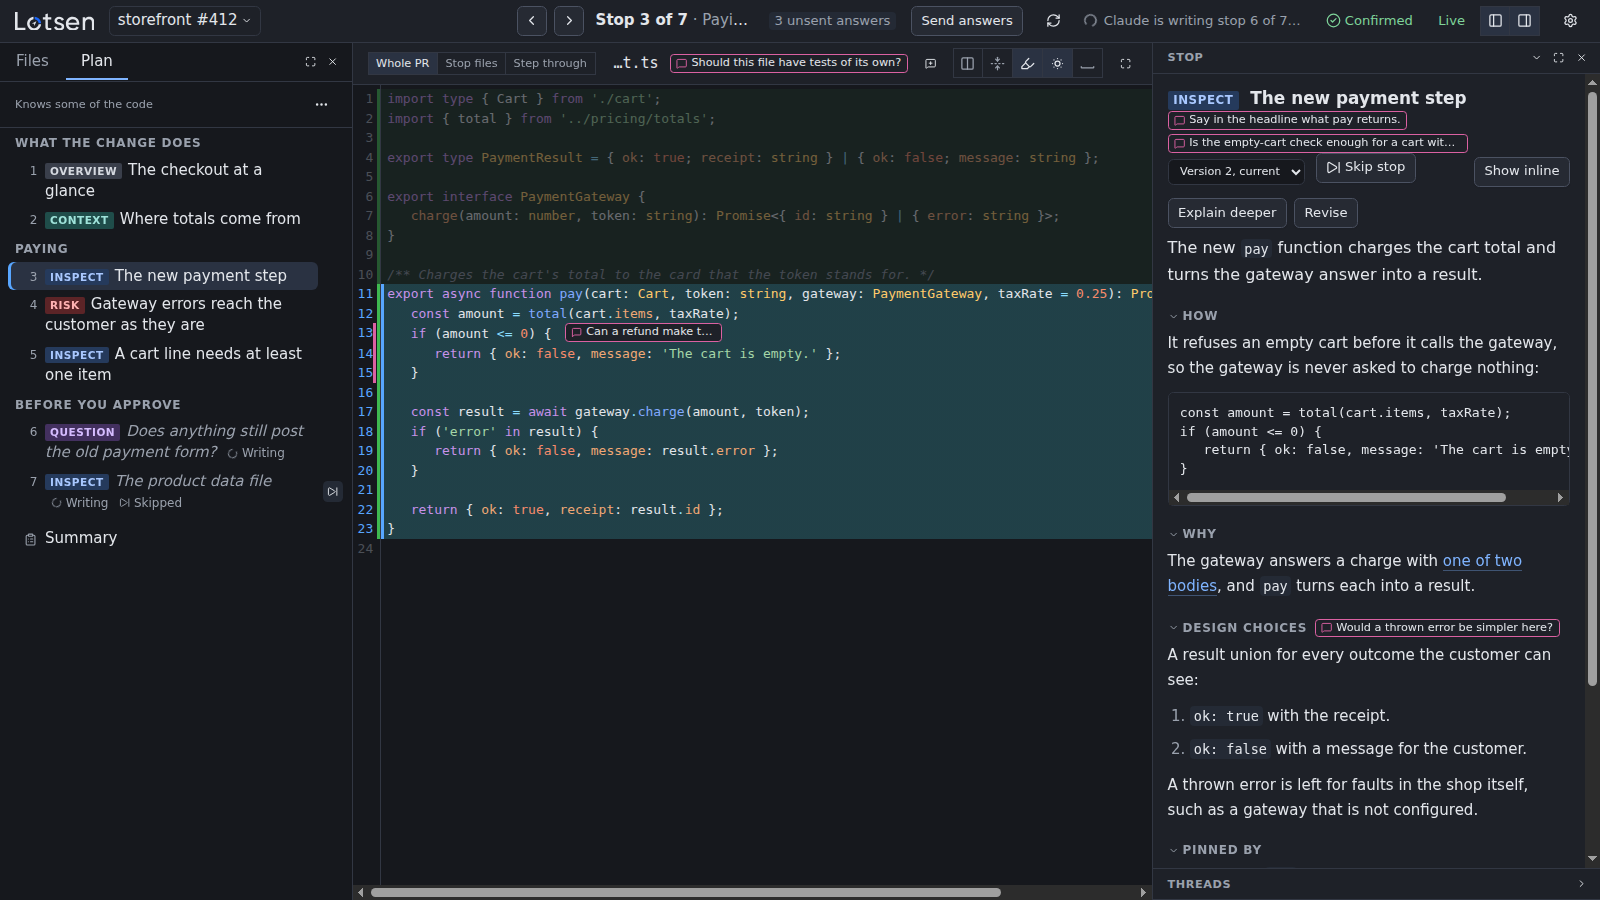
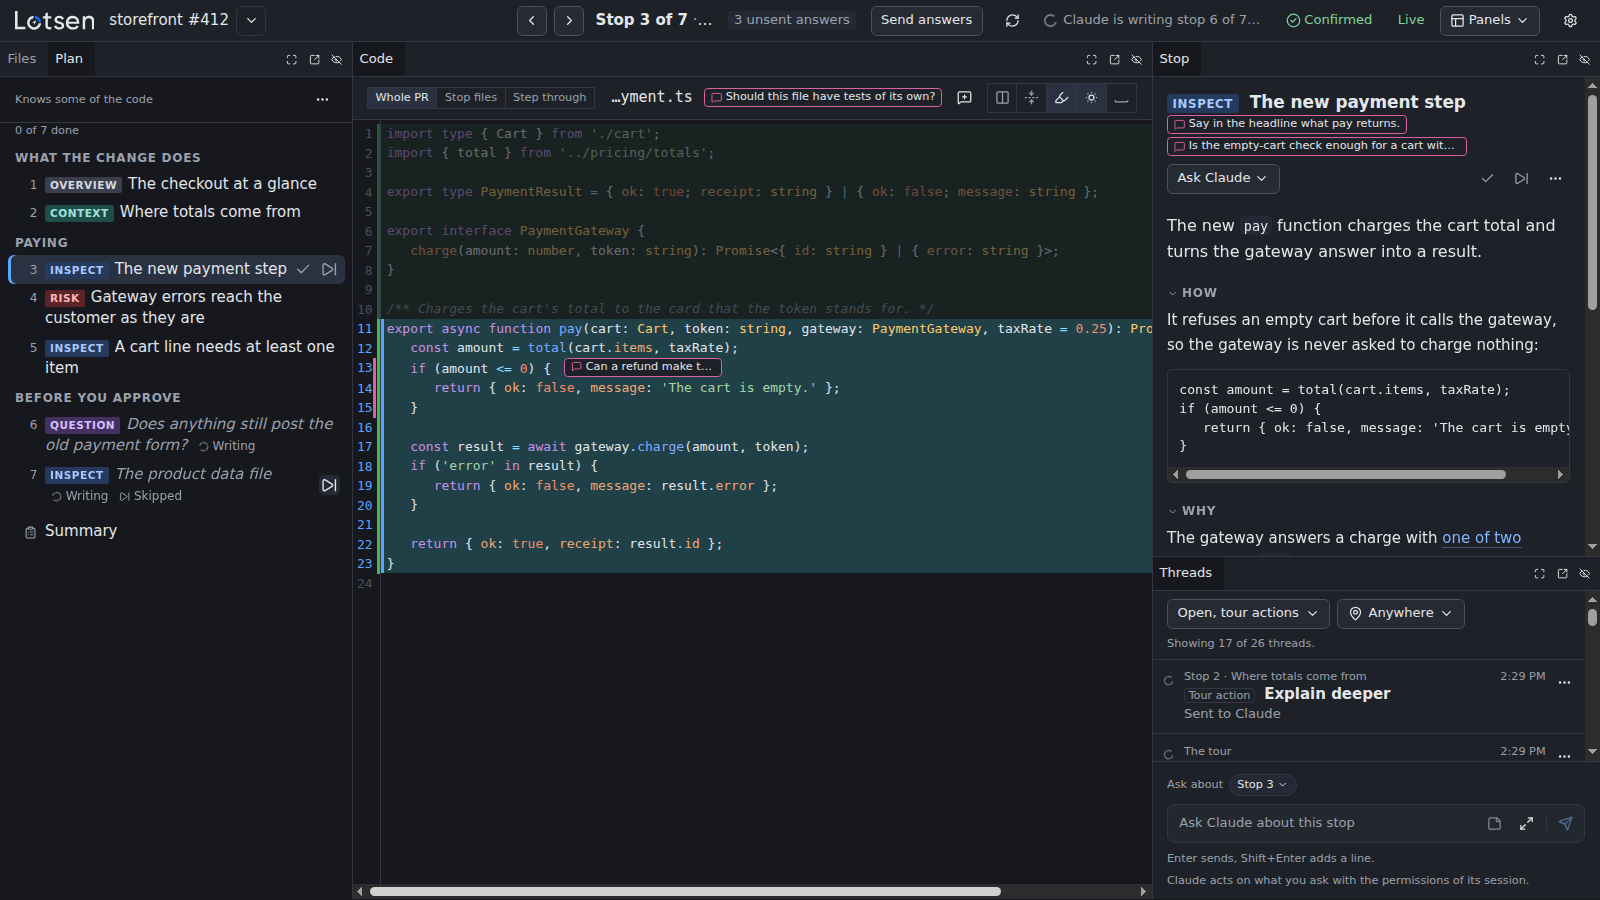
Release lotsen 0.2.0
Move the unreleased changes into the v0.2.0 section of the changelog, and retake the README's screenshots of a tour in the docking workspace with the Stop panel's toolbar.

diff --git a/CHANGELOG.md b/CHANGELOG.md
@@ -4,6 +4,8 @@ The notable changes in each release of lotsen, newest first. Versions follow [se
 
 ## Unreleased
 
+## v0.2.0 - 2026-11-13
+
 ### Added
 
 - **Dockable panels.** Drag a panel to any side of another, or into a group of tabs. The layout is saved and comes back on the next load. The Panels menu applies a ready-made arrangement (Default, Columns, or Explanation above the diff), saves and applies your own named layouts, and resets the layout.
